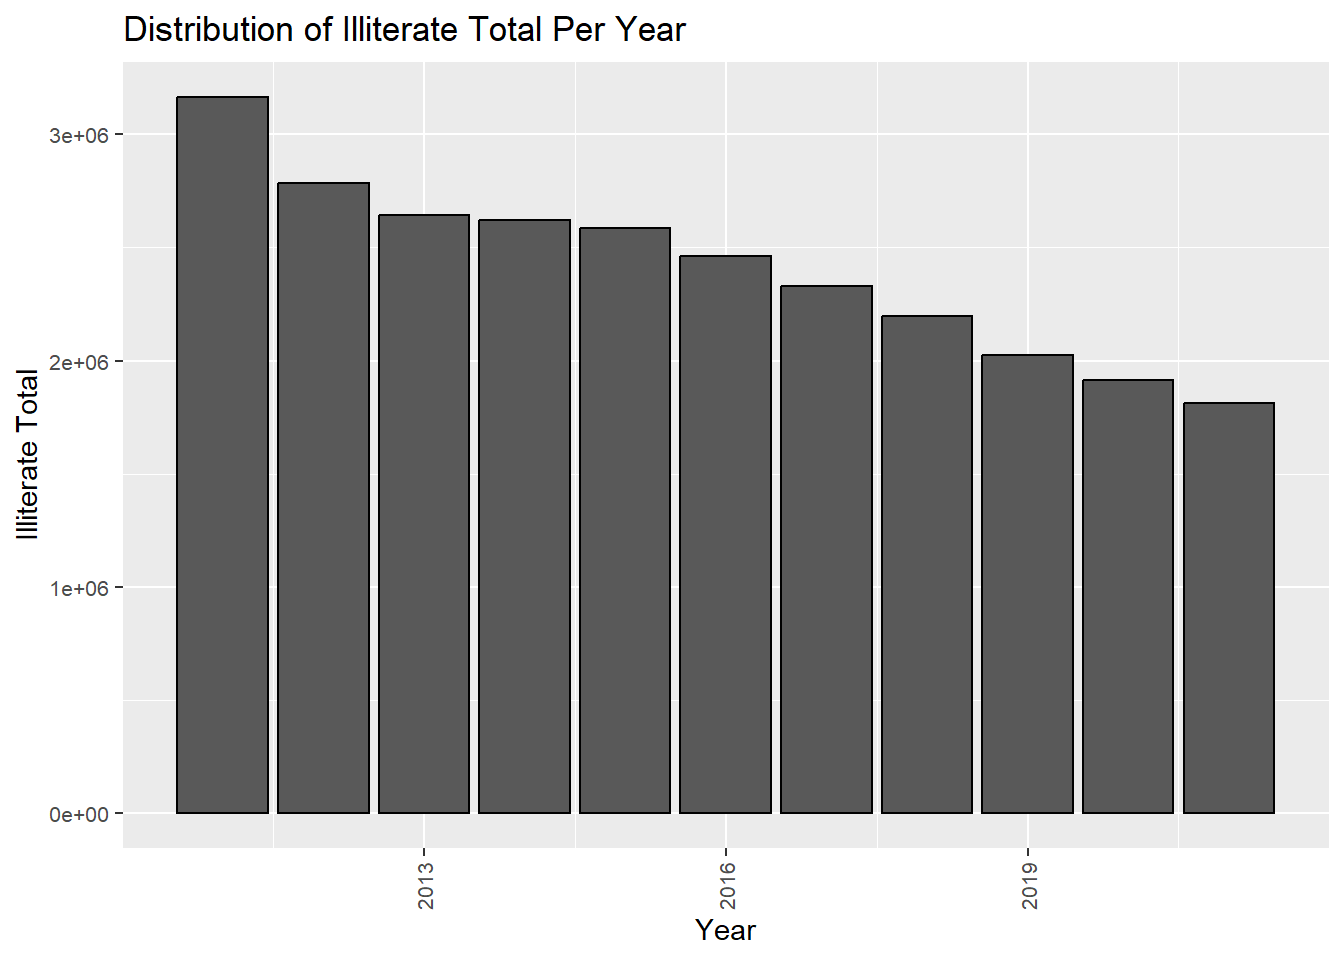
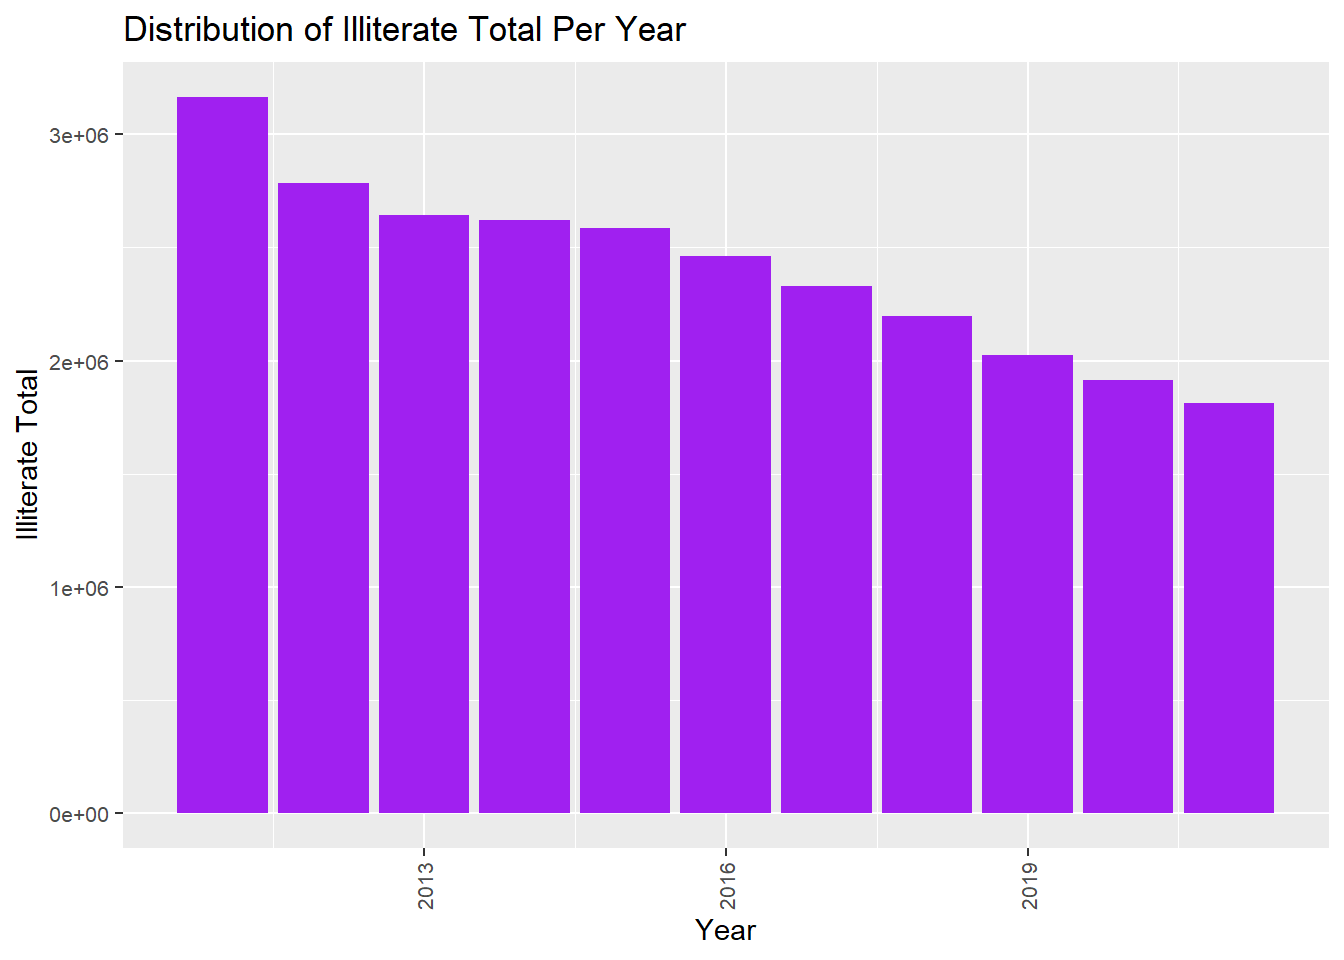
teslimat 1

diff --git a/docs/project.html b/docs/project.html
@@ -294,7 +294,8 @@ pre > code.sourceCode > span > a:first-child::before { text-decoration: underlin
 </section>
 <section id="general-information-about-data" class="level2">
 <h2 class="anchored" data-anchor-id="general-information-about-data">2.2 General Information About Data</h2>
-<p>#Year : The Year where data is collected for statistical calculations. #ProvinceID : The ProvinceID where data is collected for statistical calculations. #ProvinceName : The ProvinceName where data is collected for statistical calculations. #illiterateTotal : The illiterateTotal where Total number of illiterate people in Turkey. #illiterateMale : The IlliterateMale where Total number of illiterate men in Turkey. #illiterateFemale : The IlliterateFemale where Total number of illiterate women in Turkey.</p>
+<p>Below you can find the names of all columns in the education data set and information about the data they represent.</p>
+<p>#Year : The Year where data is collected for statistical calculations. #ProvinceID : The ProvinceID where data is collected for statistical calculations. #ProvinceName : The ProvinceName where data is collected for statistical calculations. #illiterateTotal : The illiterateTotal where Total number of illiterate people in Turkey. #illiterateMale : The IlliterateMale where Total number of illiterate men in Turkey. #illiterateFemale : The IlliterateFemale where Total number of illiterate women in Turkey. #LiterateWithoutADiplomaTotal :The LiterateWithoutADiplomaTotal is total number of people in Turkey which has no diploma. #LiterateWithoutADiplomaMale :The LiterateWithoutADiplomaTotal is total number of men in Turkey which has no diploma. #LiterateWithoutADiplomaFemale :The LiterateWithoutADiplomaTotal is total number of women in Turkey which has no diploma. #PrimarySchoolTotal : The PrimarySchoolTotal is number of people which graduated from Primary school in Turkey. #PrimarySchoolMale : The PrimarySchoolMale is number of men which graduated from Primary school in Turkey. #PrimarySchoolFemale : The PrimarySchoolMale is number of women which graduated from Primary school in Turkey. #PrimaryEducationTotal : The PrimaryEducationTotal is number of people which graduated from Primary Education in Turkey. #PrimaryEducationMale : The PrimaryEducationMale is number of men which graduated from Primary Education in Turkey. #PrimaryEducationFemale : The PrimaryEducationFemale is number of women which graduated from Primary Education in Turkey. #LowerSecondarySchoolTotal : The LowerSecondarySchoolTotal is number of people which graduated from Lower Secondary School in Turkey. #LowerSecondarySchoolMale :The LowerSecondarySchoolMale is number of men which graduated from Lower Secondary School in Turkey. #LowerSecondarySchoolFemale :The LowerSecondarySchoolFemale is number of women which graduated from Lower Secondary School in Turkey. #UpperSecondarySchoolTotal :The UpperSecondarySchoolTotal is number of people which graduated from Upper Secondary School in Turkey. #UpperSecondarySchoolMale :The LowerSecondarySchoolMale is number of men which graduated from Upper Secondary School in Turkey. #UpperSecondarySchoolFemale :The LowerSecondarySchoolFemale is number of women which graduated from Upper Secondary School in Turkey. #HigherEducationalinstitutionsTotal :The HigherEducationalinstitutionsTotal is number of people which graduated from Higher Educational institutions in Turkey. #HigherEducationalinstitutionsMale :The HigherEducationalinstitutionsMale is number of men which graduated from Higher Educational institutions in Turkey. #HigherEducationalinstitutionsFemale :The HigherEducationalinstitutionsFemale is number of women which graduated from Higher Educational institutions in Turkey. #MasterTotal :The MasterTotal is number of people which graduated from Master in Turkey. #MasterMale : The MasterTotal is number of men which graduated from Master in Turkey. #MasterFemale : The MasterTotal is number of women which graduated from Master in Turkey. DoctorateTotal : The DoctorateTotal is number of people which graduated from Master in Turkey. DoctorateMale :The DoctorateTotal is number of men which graduated from Master in Turkey. DoctorateFemale :The DoctorateTotal is number of women which graduated from Master in Turkey. UnknownTotal : The UnknownTotal is the number of people whose educational status is unknown in Turkey. UnknownMale :The UnknownTotal is the number of men whose educational status is unknown in Turkey. UnknownFemale :The UnknownTotal is the number of women whose educational status is unknown in Turkey.</p>
 </section>
 <section id="reason-of-choice" class="level2">
 <h2 class="anchored" data-anchor-id="reason-of-choice">2.3 Reason of Choice</h2>
@@ -303,9 +304,10 @@ pre > code.sourceCode > span > a:first-child::before { text-decoration: underlin
 </section>
 <section id="analysis" class="level1">
 <h1>3. Analysis</h1>
-<p>xxxxxx</p>
+<p>We will have a lot of summary data thanks to the data set that will allow us to analyze the education levels in Turkey. And we will observe the relationships between the data.</p>
 <section id="exploratory-data-analysis" class="level2">
 <h2 class="anchored" data-anchor-id="exploratory-data-analysis">3.1 Exploratory Data Analysis</h2>
+<p>Below you see the graph of the total number of illiterate people in Turkey according to years. From the graph, it can be observed that the number of illiterate people in Turkey has decreased over the years. Stay tuned for many more summary data like this and analysis of the relationships between data.</p>
 <div class="cell">
 <details>
 <summary>Code</summary>
@@ -325,7 +327,7 @@ pre > code.sourceCode > span > a:first-child::before { text-decoration: underlin
 <span id="cb3-14"><a href="#cb3-14" aria-hidden="true" tabindex="-1"></a></span>
 <span id="cb3-15"><a href="#cb3-15" aria-hidden="true" tabindex="-1"></a>education2 <span class="sc">%&gt;%</span></span>
 <span id="cb3-16"><a href="#cb3-16" aria-hidden="true" tabindex="-1"></a>  <span class="fu">ggplot</span>(<span class="fu">aes</span>(<span class="at">x =</span> Year, <span class="at">y =</span> illiterateYearTotal)) <span class="sc">+</span></span>
-<span id="cb3-17"><a href="#cb3-17" aria-hidden="true" tabindex="-1"></a>  <span class="fu">geom_bar</span>(<span class="at">stat =</span> <span class="st">"identity"</span>, <span class="at">color =</span> <span class="st">"black"</span>) <span class="sc">+</span></span>
+<span id="cb3-17"><a href="#cb3-17" aria-hidden="true" tabindex="-1"></a>  <span class="fu">geom_bar</span>(<span class="at">stat =</span> <span class="st">"identity"</span>, <span class="at">fill =</span> <span class="st">"purple"</span>) <span class="sc">+</span></span>
 <span id="cb3-18"><a href="#cb3-18" aria-hidden="true" tabindex="-1"></a>  <span class="fu">labs</span>(<span class="at">title =</span> <span class="st">"Distribution of Illiterate Total Per Year"</span>,</span>
 <span id="cb3-19"><a href="#cb3-19" aria-hidden="true" tabindex="-1"></a>       <span class="at">x =</span> <span class="st">"Year"</span>,</span>
 <span id="cb3-20"><a href="#cb3-20" aria-hidden="true" tabindex="-1"></a>       <span class="at">y =</span> <span class="st">"Illiterate Total"</span>) <span class="sc">+</span></span>
